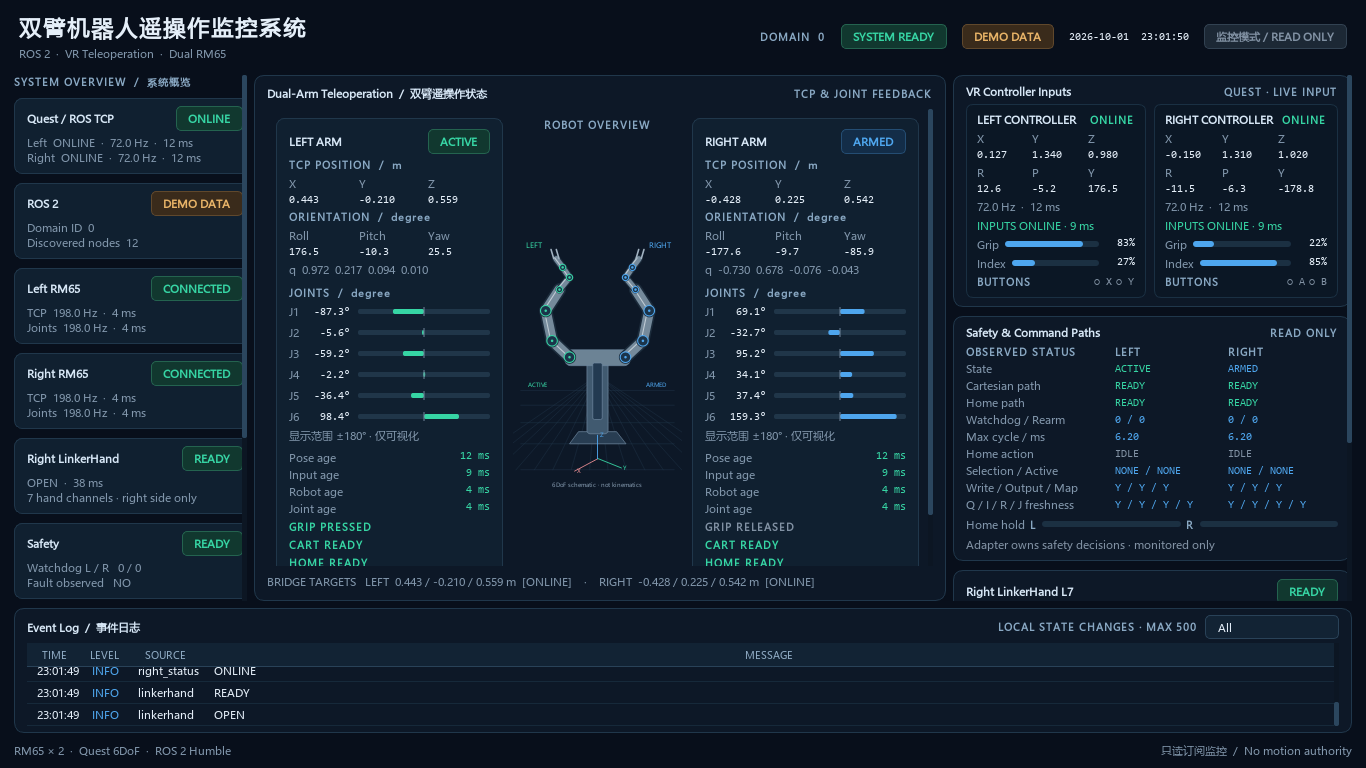
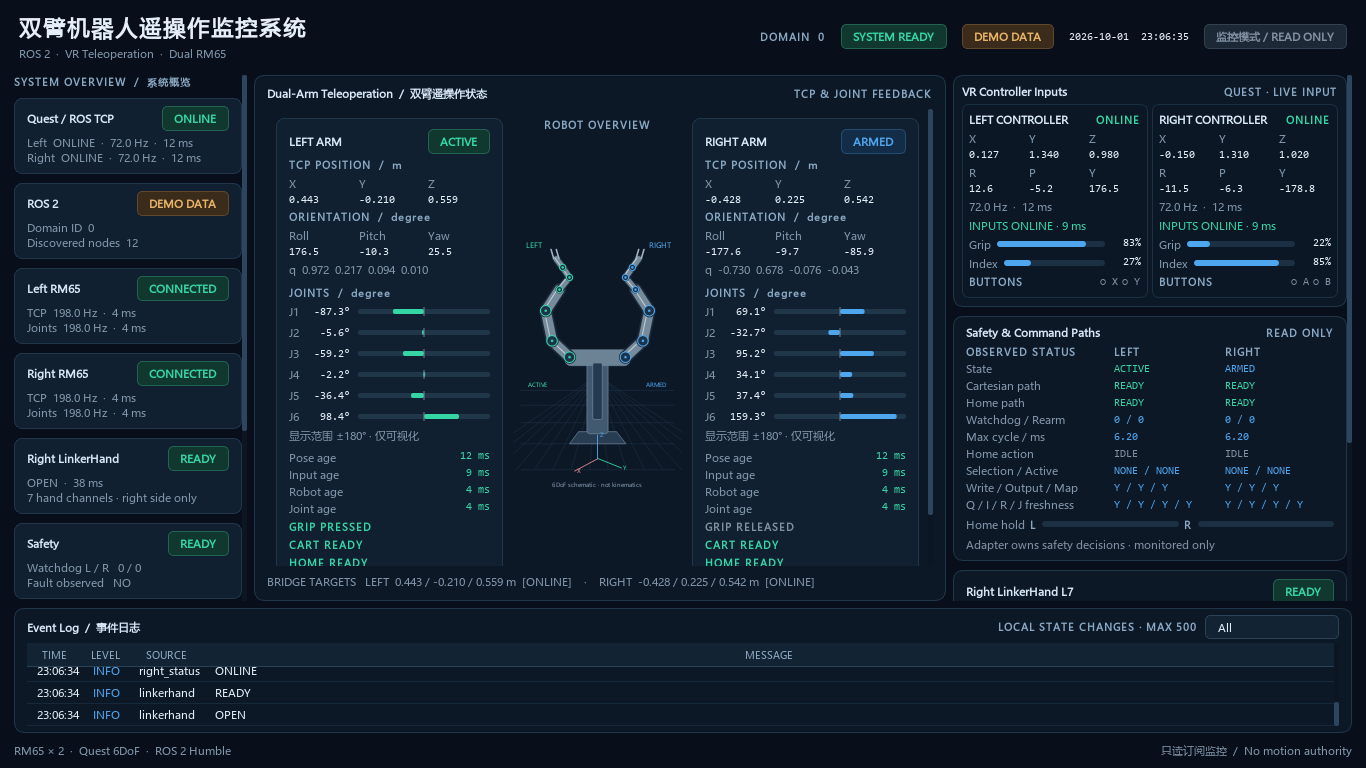
fix: fit controller cards within compact dashboard viewports

diff --git a/src/rm65_teleop_dashboard/rm65_teleop_dashboard/main_window.py b/src/rm65_teleop_dashboard/rm65_teleop_dashboard/main_window.py
@@ -169,11 +169,11 @@ class MainWindow(QMainWindow):
     def _right(self):
         content, layout = column()
         controllers = Card("VR Controller Inputs", role="panel")
-        controllers.body.setContentsMargins(12, 8, 12, 8)
+        controllers.body.setContentsMargins(8, 8, 8, 8)
         controllers.body.setSpacing(5)
         controllers.heading.addWidget(label("QUEST · LIVE INPUT", "eyebrow"))
         row = QHBoxLayout()
-        row.setSpacing(8)
+        row.setSpacing(4)
         self.left_controller = ControllerCard("left")
         self.right_controller = ControllerCard("right")
         row.addWidget(self.left_controller, 1)
@@ -291,7 +291,7 @@ class MainWindow(QMainWindow):
             self._compact = compact
             self.setStyleSheet(stylesheet(compact))
             if hasattr(self, "left_controller"):
-                self.left_controller.glyph.setVisible(not compact)
-                self.right_controller.glyph.setVisible(not compact)
+                self.left_controller.set_compact(compact)
+                self.right_controller.set_compact(compact)
                 self.left_arm.set_compact(compact)
                 self.right_arm.set_compact(compact)

diff --git a/src/rm65_teleop_dashboard/rm65_teleop_dashboard/widgets.py b/src/rm65_teleop_dashboard/rm65_teleop_dashboard/widgets.py
@@ -298,6 +298,12 @@ class ControllerCard(Card):
             self.buttons.append(widget)
         self.body.addLayout(button_row)
 
+    def set_compact(self, compact):
+        self.glyph.setVisible(not compact)
+        self.heading.setSpacing(4 if compact else 7)
+        self.body.setContentsMargins(6 if compact else 10, 7,
+                                     6 if compact else 10, 8)
+
     def update_controller(self, controller):
         states = (controller.pose_health.state, controller.inputs_health.state)
         state = "INVALID" if "INVALID" in states else "ONLINE" if all(s == "ONLINE" for s in states) else "OFFLINE" if "OFFLINE" in states else "STALE"
